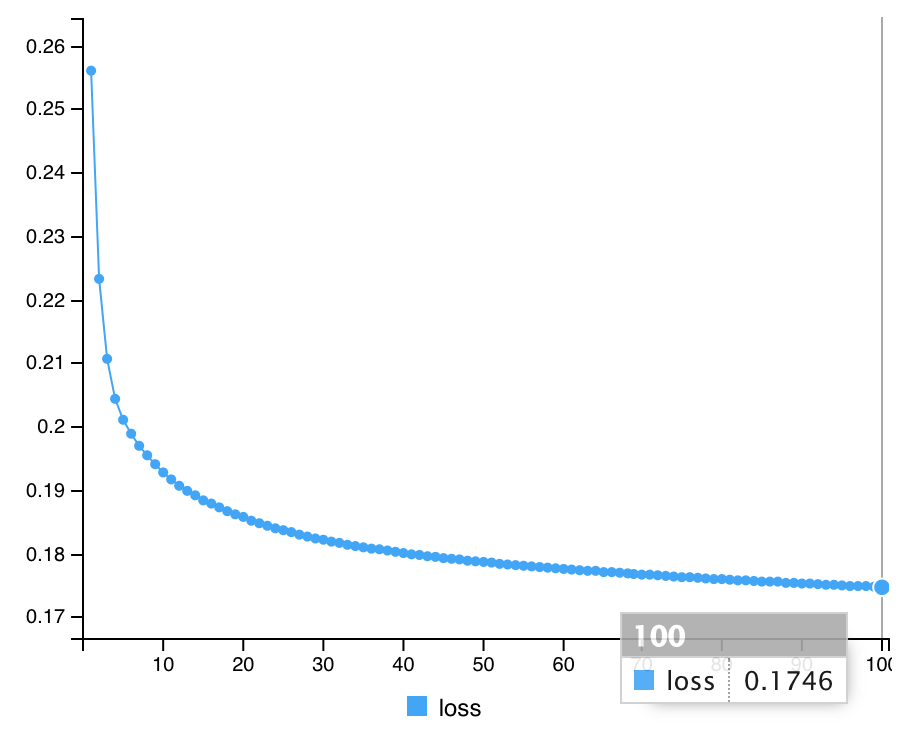
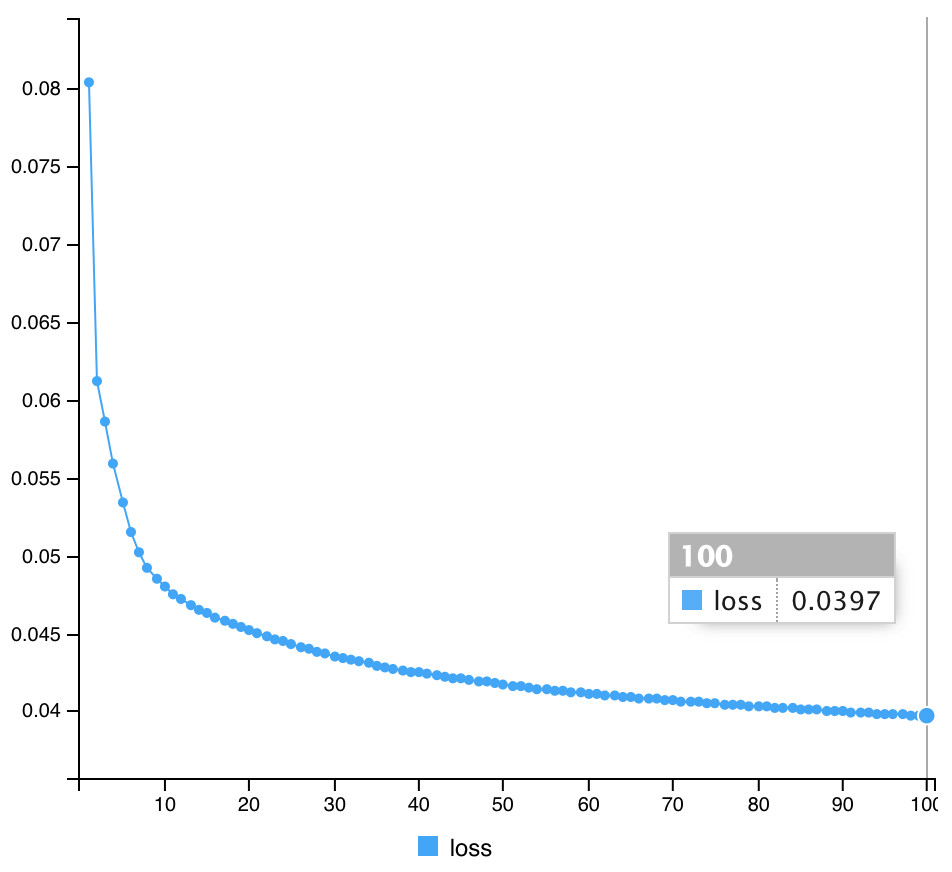
Add files via upload

Changed region(s): [[0.0, 0.0, 0.9868, 1.0]]

diff --git a/SimpleAutoencoder/Autoencoder1/Autoencoder1_result.html b/SimpleAutoencoder/Autoencoder1/Autoencoder1_result.html
@@ -412,7 +412,7 @@ function MetricsCharts(container, metrics, update_url, auto_resize) {
 
 </script>
 
-<script type="application/json" id="metrics">{"loss":[0.256,0.2232,0.2106,0.2043,0.201,0.1988,0.1969,0.1954,0.194,0.1927,0.1916,0.1906,0.1898,0.1891,0.1883,0.1878,0.1872,0.1866,0.1861,0.1857,0.1851,0.1847,0.1843,0.1839,0.1836,0.1833,0.1829,0.1826,0.1823,0.1821,0.1818,0.1816,0.1813,0.1811,0.1809,0.1807,0.1806,0.1804,0.1802,0.18,0.1798,0.1797,0.1795,0.1794,0.1792,0.1791,0.179,0.1788,0.1787,0.1786,0.1785,0.1783,0.1782,0.1781,0.178,0.1779,0.1778,0.1777,0.1776,0.1775,0.1774,0.1773,0.1772,0.1772,0.177,0.177,0.1769,0.1768,0.1767,0.1766,0.1766,0.1765,0.1764,0.1763,0.1762,0.1762,0.1761,0.176,0.1759,0.1759,0.1758,0.1757,0.1757,0.1756,0.1755,0.1755,0.1755,0.1753,0.1753,0.1752,0.1752,0.1751,0.175,0.175,0.1749,0.1748,0.1748,0.1748,0.1747,0.1746]}</script>
+<script type="application/json" id="metrics">{"loss":[0.0804,0.0612,0.0586,0.0559,0.0534,0.0515,0.0502,0.0492,0.0485,0.048,0.0475,0.0472,0.0468,0.0465,0.0463,0.046,0.0458,0.0456,0.0454,0.0452,0.045,0.0448,0.0446,0.0445,0.0443,0.0441,0.044,0.0438,0.0437,0.0435,0.0434,0.0433,0.0432,0.0431,0.0429,0.0428,0.0427,0.0426,0.0425,0.0425,0.0424,0.0423,0.0422,0.0421,0.0421,0.042,0.0419,0.0419,0.0418,0.0417,0.0416,0.0416,0.0415,0.0414,0.0414,0.0413,0.0413,0.0412,0.0412,0.0411,0.0411,0.041,0.041,0.0409,0.0409,0.0408,0.0408,0.0408,0.0407,0.0407,0.0406,0.0406,0.0406,0.0405,0.0405,0.0404,0.0404,0.0404,0.0403,0.0403,0.0403,0.0402,0.0402,0.0402,0.0401,0.0401,0.0401,0.04,0.04,0.04,0.0399,0.0399,0.0399,0.0398,0.0398,0.0398,0.0398,0.0397,0.0397,0.0397]}</script>
 
 <style type="text/css">
 body {
